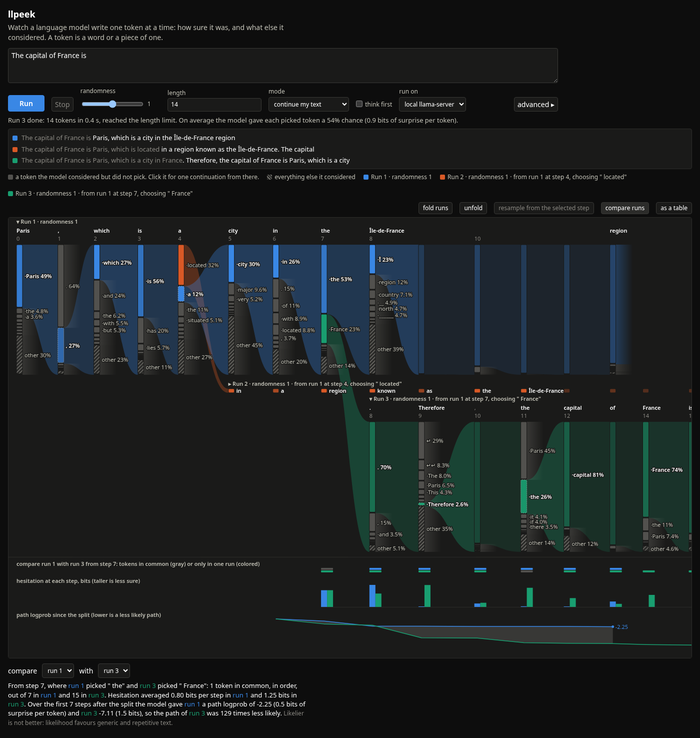
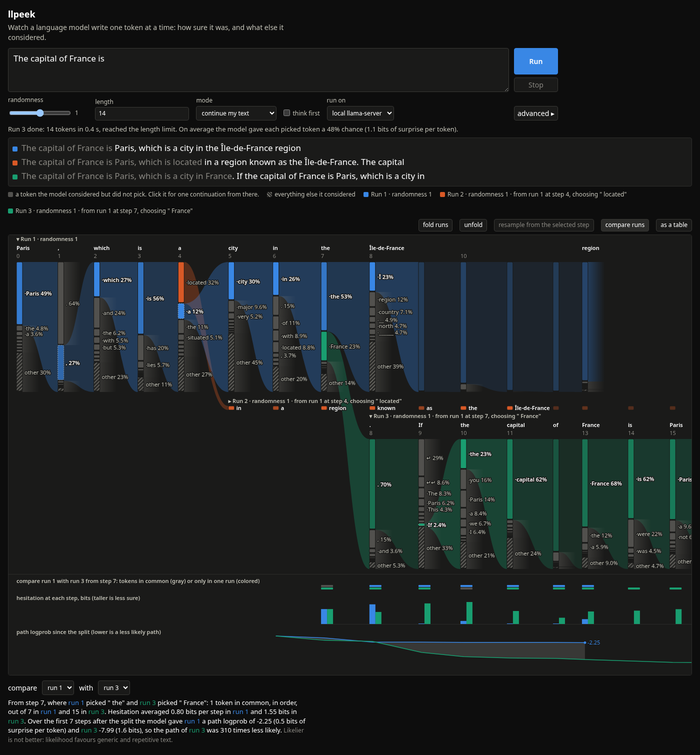
1

diff --git a/docs/app.html b/docs/app.html
@@ -75,7 +75,12 @@
   label.mode { white-space: nowrap; }
   input, textarea, button { font: inherit; color: var(--ink); background: var(--surface);
          border: 1px solid var(--line); border-radius: 4px; padding: 4px 6px; min-width: 0; }
-  textarea { display: block; width: 100%; box-sizing: border-box; min-height: 70px; resize: vertical; }
+  textarea { display: block; width: 100%; box-sizing: border-box; min-height: 88px; resize: vertical; font-size: 17px; line-height: 1.4; padding: 8px 10px; }
+  .promptRow { display: flex; gap: 10px; align-items: stretch; }
+  .promptRow textarea { flex: 1; }
+  .actions { display: flex; flex-direction: column; gap: 6px; }
+  .actions button { min-width: 88px; }
+  .actions .primary { flex: 1; padding: 6px 22px; }
   button { cursor: pointer; }
   button.primary { background: var(--chosen); border-color: var(--chosen); color: #fff; font-weight: 600; padding: 6px 22px; }
   button.primary:disabled { opacity: 0.5; cursor: default; }
@@ -99,8 +104,8 @@
     #chart rect.next { opacity: 0.6; }
   }
   #text { margin: 8px 0; padding: 8px; background: var(--surface); border: 1px solid var(--grid);
-          border-radius: 4px; white-space: pre-wrap; word-break: break-word; font-size: 13px;
-          max-height: 200px; overflow: auto; user-select: text; }
+          border-radius: 4px; white-space: pre-wrap; word-break: break-word; font-size: 17px; line-height: 1.4;
+          max-height: 240px; overflow: auto; user-select: text; }
   #text:empty { display: none; }
   #text .t { cursor: pointer; border-radius: 2px; }
   #text .t:hover { background: var(--grid); }
@@ -158,19 +163,27 @@
   #resamplePanel select { font-size: 12px; }
   #resamplePanel td.tok { font-family: ui-monospace, SFMono-Regular, Menlo, monospace; white-space: pre-wrap; }
   .hidden { display: none; }
+  dialog { border: 1px solid var(--line); border-radius: 6px; background: var(--surface); color: var(--ink); padding: 16px 18px; max-width: 34em; }
+  dialog::backdrop { background: rgba(0, 0, 0, 0.35); }
+  dialog h2 { font-size: 15px; margin: 0 0 8px; }
+  dialog p { margin: 6px 0; }
+  dialog .row { display: flex; gap: 8px; margin-top: 12px; }
 </style>
 </head>
 <body>
 <h1><a href="./" title="About llpeek">llpeek</a></h1>
-<p class="intro">Watch a language model write one token at a time: how sure it was, and what else it considered.
-A token is a word or a piece of one.</p>
+<p class="intro">Watch a language model write one token at a time: how sure it was, and what else it considered.</p>
 
 <form id="f" onsubmit="return false">
-  <textarea id="prompt" placeholder="Type something for the model to continue, or a question to answer. Ctrl+Enter runs it." spellcheck="false">The capital of France is</textarea>
+  <div class="promptRow">
+    <textarea id="prompt" placeholder="Type something for the model to continue, or a question to answer. Ctrl+Enter runs it." spellcheck="false">The capital of France is</textarea>
+    <div class="actions">
+      <button id="run" class="primary" title="Ctrl+Enter">Run</button>
+      <button id="stop" disabled title="Escape">Stop</button>
+    </div>
+  </div>
   <p id="promptNote" class="warn hidden">The prompt ends with a space. The space usually belongs to the next token, so a model rarely sees one here and the first step will look more hesitant than it is. Remove it unless that is what you want to test.</p>
   <div class="bar">
-    <button id="run" class="primary" title="Ctrl+Enter">Run</button>
-    <button id="stop" disabled title="Escape">Stop</button>
     <label title="0 = always take the most likely token. Higher = more surprising choices.">randomness
       <span class="range"><input id="temperature" type="range" min="0" max="2" step="0.1" value="0.8"><output id="tempOut">0.8</output></span>
     </label>
@@ -196,7 +209,7 @@ A token is a word or a piece of one.</p>
   <div id="browserRow" class="panel hidden">
     <label>model <select id="model"></select></label>
     <label id="modelUrlLabel" class="hidden">model URL <input id="modelUrl" placeholder="https://huggingface.co/<repo>/resolve/main/<file>.gguf" size="52"></label>
-    <button id="load">load model</button>
+    <button id="load" class="primary">load model</button>
     <span id="modelNote" class="muted"></span>
     <span id="loadInfo" class="hidden"><progress id="loadBar" max="100"></progress><span id="loadText" class="muted"></span></span>
   </div>
@@ -234,6 +247,12 @@ A token is a word or a piece of one.</p>
 <div id="tableWrap" class="hidden"></div>
 <div id="compare"></div>
 <div id="resamplePanel"></div>
+<dialog id="noModel">
+  <h2>Load a model first</h2>
+  <p>Running in this browser needs a model. Selected: <b id="noModelName"></b>. <span id="noModelNote" class="muted"></span></p>
+  <p class="muted">To use another one, close this and pick it under "run on: this browser".</p>
+  <div class="row"><button id="noModelLoad" class="primary">load it, then run</button><button id="noModelCancel">not now</button></div>
+</dialog>
 <div id="tip" role="tooltip"></div>
 
 <script>
@@ -492,8 +511,8 @@ if (!crossOriginIsolated && 'serviceWorker' in navigator && window.isSecureConte
   // Public GGUFs that load in a browser (CORS-enabled, under the 2 GB single-file
   // limit). [label, url, bytes]; bytes from the CDN's content-length, 2026-09-27.
   const MODELS = [
-    ['Qwen3.5 2B Q8_0 (2.1 GB, same as the server default)', 'https://huggingface.co/bartowski/Qwen_Qwen3.5-2B-GGUF/resolve/main/Qwen_Qwen3.5-2B-Q8_0.gguf', 2080140384],
-    ['Qwen3.5 2B Q4_K_M (1.4 GB, faster download)', 'https://huggingface.co/bartowski/Qwen_Qwen3.5-2B-GGUF/resolve/main/Qwen_Qwen3.5-2B-Q4_K_M.gguf', 1396198496],
+    ['Qwen3.5 2B Q4_K_M (1.4 GB, default)', 'https://huggingface.co/bartowski/Qwen_Qwen3.5-2B-GGUF/resolve/main/Qwen_Qwen3.5-2B-Q4_K_M.gguf', 1396198496],
+    ['Qwen3.5 2B Q8_0 (2.1 GB, the same file as the server default)', 'https://huggingface.co/bartowski/Qwen_Qwen3.5-2B-GGUF/resolve/main/Qwen_Qwen3.5-2B-Q8_0.gguf', 2080140384],
     ['SmolLM2 360M Instruct Q8_0 (0.4 GB, Hugging Face)', 'https://huggingface.co/HuggingFaceTB/SmolLM2-360M-Instruct-GGUF/resolve/main/smollm2-360m-instruct-q8_0.gguf', 386404992],
     ['Gemma 3 1B Instruct Q8_0 (1.1 GB, Google)', 'https://huggingface.co/ggml-org/gemma-3-1b-it-GGUF/resolve/main/gemma-3-1b-it-Q8_0.gguf', 1069306368],
     ['Llama 3.2 1B Instruct Q8_0 (1.3 GB, Meta)', 'https://huggingface.co/bartowski/Llama-3.2-1B-Instruct-GGUF/resolve/main/Llama-3.2-1B-Instruct-Q8_0.gguf', 1321083008],
@@ -1737,8 +1756,23 @@ if (!crossOriginIsolated && 'serviceWorker' in navigator && window.isSecureConte
   }
   $('n_predict').addEventListener('change', () => { const n = +$('n_predict').value; if (n > 0 && runs.length) active = extendRuns(n); });
 
-  $('run').onclick = () => { if (ctrl) return; runs = []; selected = null; sampleSet = null; colCur = []; colTarget = []; active = startRun(newRun()); };
-  $('add').onclick = () => { if (ctrl) return; active = startRun(newRun()); };
+  // Run or add with the browser engine and no model loaded: ask, load, then do it.
+  const needsModel = () => $('engine').value === 'browser' && !browser;
+  function askForModel(then) {
+    const sel = $('model'), url = sel.value === 'url';
+    $('noModelName').textContent = url ? ($('modelUrl').value.trim().split('/').pop() || 'no URL entered yet') : (sel.selectedOptions[0]?.textContent ?? '');
+    $('noModelNote').textContent = $('modelNote').textContent;
+    $('noModelLoad').disabled = url && !$('modelUrl').value.trim();
+    $('noModelLoad').onclick = async () => { $('noModel').close(); if (await loadModel()) then(); };
+    $('noModelCancel').onclick = () => $('noModel').close();
+    $('noModel').showModal();
+  }
+  $('run').onclick = () => {
+    if (ctrl) return;
+    if (needsModel()) { askForModel(() => $('run').onclick()); return; }
+    runs = []; selected = null; sampleSet = null; colCur = []; colTarget = []; active = startRun(newRun());
+  };
+  $('add').onclick = () => { if (ctrl) return; if (needsModel()) { askForModel(() => $('add').onclick()); return; } active = startRun(newRun()); };
   $('stop').onclick = () => ctrl?.abort();
 
   // Prefill from the query string (?base=...&prompt=...&n_predict=..&run=1), for

diff --git a/scripts/models.ts b/scripts/models.ts
@@ -11,8 +11,8 @@ if (di >= 0) { dir = args[di + 1]; args.splice(di, 2); }
 dir = dir.replace(/\/$/, "");
 const HF = "https://huggingface.co";
 const KNOWN: Record<string, { url: string; note: string }> = {
-  "qwen3.5-2b":        { url: `${HF}/bartowski/Qwen_Qwen3.5-2B-GGUF/resolve/main/Qwen_Qwen3.5-2B-Q8_0.gguf`, note: "2.1 GB, Q8_0, the project default; also the browser default" },
-  "qwen3.5-2b-q4":     { url: `${HF}/bartowski/Qwen_Qwen3.5-2B-GGUF/resolve/main/Qwen_Qwen3.5-2B-Q4_K_M.gguf`, note: "1.4 GB, Q4_K_M, lighter" },
+  "qwen3.5-2b":        { url: `${HF}/bartowski/Qwen_Qwen3.5-2B-GGUF/resolve/main/Qwen_Qwen3.5-2B-Q8_0.gguf`, note: "2.1 GB, Q8_0, the server default" },
+  "qwen3.5-2b-q4":     { url: `${HF}/bartowski/Qwen_Qwen3.5-2B-GGUF/resolve/main/Qwen_Qwen3.5-2B-Q4_K_M.gguf`, note: "1.4 GB, Q4_K_M, the browser default" },
   "qwen3.5-4b":        { url: `${HF}/bartowski/Qwen_Qwen3.5-4B-GGUF/resolve/main/Qwen_Qwen3.5-4B-Q8_0.gguf`, note: "4.6 GB, Q8_0" },
   "qwen3.5-4b-q4":     { url: `${HF}/bartowski/Qwen_Qwen3.5-4B-GGUF/resolve/main/Qwen_Qwen3.5-4B-Q4_K_M.gguf`, note: "3.0 GB, Q4_K_M" },
   "smollm3":           { url: `${HF}/ggml-org/SmolLM3-3B-GGUF/resolve/main/SmolLM3-Q8_0.gguf`, note: "3.3 GB, Q8_0, thinking model with a system-prompt style template" },

diff --git a/docs/index.html b/docs/index.html
@@ -62,7 +62,7 @@
   <p class="tagline">Watch a language model write one token at a time: how sure it was and what else it considered. Pick a different candidate and see where it leads.</p>
   <a class="cta" href="app.html">Try it in your browser</a>
   <a class="cta secondary" href="https://github.com/wistrand/llpeek">Source on GitHub</a>
-  <p class="caption">The browser version downloads a 2 GB model once and runs it on your machine with WebAssembly. Nothing you type leaves your computer.</p>
+  <p class="caption">The browser version downloads a 1.4 GB model once and runs it on your machine with WebAssembly. Nothing you type leaves your computer.</p>
 </header>
 
 <a class="shot" href="screenshot-dark.png"><img src="thumb-dark.png" alt="llpeek showing a Sankey of candidate tokens per step for the prompt 'The capital of France is', two runs branched where the model considered ' located' and ' France', and compare tracks below lining up the last branch with the first run"></a>

diff --git a/agent_docs/architecture-app.md b/agent_docs/architecture-app.md
@@ -241,6 +241,11 @@ add new motion by extending the tween state, so one loop owns all motion.
   show full settings, tooltips add ids and logprobs, the status line appends
   tok/s and path logprob, and the table gains logprob and sampler columns.
   Keep this one switch; do not add per-feature "show technical" toggles.
+- Run or "add a run" with the browser engine and no model loaded opens the
+  `#noModel` dialog (`askForModel`, a native `<dialog>` via `showModal`):
+  it names the selected model with its size note and offers "load it, then
+  run", which loads and then repeats the click, or "not now". Escape closes
+  it. Branches and resamples never hit it, since they reuse the run's engine.
 - A run keeps the engine it was made with (`run.engine`). Loading another
   browser model unloads the old wllama instance, which marks itself
   `unloaded`; `gone(run)` then refuses to branch, resample, extend or replay
@@ -254,8 +259,9 @@ add new motion by extending the tween state, so one loop owns all motion.
   the chosen engine (the loaded browser model's info, or "pick a model"; for
   the server, a fresh check that says which model it runs). The idle phrases
   in `scripts/headless.ts` include these status lines.
-- Controls: prompt textarea, Run (primary; Ctrl+Enter or Cmd+Enter), Stop
-  (Escape), randomness slider, length, mode, think first, run on. Choosing the
+- Controls: prompt textarea (17 px text, the same size as the output strip) with Run (primary; Ctrl+Enter or
+  Cmd+Enter) and Stop (Escape) stacked in a column to its right
+  (`.promptRow`, `.actions`), then the bar: randomness slider, length, mode, think first, run on. Choosing the
   browser engine reveals a model row (curated public URLs, or a URL) with a load
   button, a size note (a warning above 1 GB, or "already in this browser"
   when wllama's cache holds the file) and progress. Advanced: server

diff --git a/README.md b/README.md
@@ -59,9 +59,10 @@ The landing page at http://localhost:8000/ is the same one GitHub Pages publishe
 - `deno task llama` and `deno task serve` run the two halves separately.
   Append `-m <model>` or other llama-server flags to the llama task to override.
 - No llama-server? Set "run on" to "this browser" and press "load model". The
-  default is the same 2B Qwen from Hugging Face, downloaded once and cached by
-  the browser; the list also has SmolLM2 360M, Gemma 3 1B, Llama 3.2 1B and
-  SmolLM3 3B, and any CORS-enabled GGUF URL under 2 GB works. A note next to
+  default is the 2B Qwen at Q4_K_M (1.4 GB) from Hugging Face, downloaded
+  once and cached by the browser; the Q8_0 in the list is the same file the
+  server uses, and the list also has SmolLM2 360M, Gemma 3 1B, Llama 3.2 1B
+  and SmolLM3 3B. Any CORS-enabled GGUF URL under 2 GB works. A note next to
   the button gives the download size before you start, or says the model is
   already in the browser's cache. The published site
   offers only this engine; the server option appears when the page is served

diff --git a/agent_docs/architecture-browser-engine.md b/agent_docs/architecture-browser-engine.md
@@ -48,9 +48,10 @@ a string entry and biases every resulting token, verified 2026-09-27 with
 `[[" Paris is", false]]` banning " Paris". On a model without a `<think>`
 token the string would ban the pieces "<", "think" and ">" instead. wllama
 3.6.1 has no tokenizer call in JS, so the template is the only cheap signal.
-Default: Hugging Face
-`bartowski/Qwen_Qwen3.5-2B-GGUF`, file `Qwen_Qwen3.5-2B-Q8_0.gguf` (2.08 GB,
-byte-identical to the local server default). Hugging Face `resolve` links 302 to
+Default (since 2026-09-28): Hugging Face `bartowski/Qwen_Qwen3.5-2B-GGUF`,
+file `Qwen_Qwen3.5-2B-Q4_K_M.gguf` (1.40 GB); the Q8_0 next to it (2.08 GB)
+is byte-identical to the local server default, so pick it when a browser run
+must match a server run: quantizations give different probabilities. Hugging Face `resolve` links 302 to
 a CDN; with a browser `Origin` header the redirect echoes the origin and the CDN
 answers `access-control-allow-origin: *` (verified from `http://localhost:8000`).
 Local files are deliberately not served: the page must work the same from any

diff --git a/agent_docs/plan.md b/agent_docs/plan.md
@@ -246,6 +246,15 @@ and four track headings.
 
 ## Open questions
 
+- **Chrome's built-in model is not usable as an engine** (checked 2026-09-28).
+  The Prompt API (`LanguageModel`, Gemini Nano in Chrome 138+, Phi-4-mini in
+  Edge) returns text only: no logprobs, candidate tokens or logits, no seed,
+  chat sessions only, and on the web no sampling parameters beyond an
+  origin-trial `samplingMode` enum (extensions get `topK`/`temperature`).
+  The logprobs request is webmachinelearning/prompt-api#20, open since July
+  2024 with no editor response. llpeek needs pre-sampling top-K per token, so
+  wllama stays the browser engine. Revisit if #20 moves.
+
 - **Rendering cost.** `render()` rebuilds the SVG on every step. Measured
   2026-09-27 in headless Chrome, three lanes: 240 columns (7.5k SVG nodes)
   rebuild in about 2 ms of script time, 600 columns (19k nodes) in about 6 ms,

diff --git a/agent_docs/gotchas.md b/agent_docs/gotchas.md
@@ -100,8 +100,8 @@ Traps in the llama-server API and this machine's setup. Append as discovered.
   the first shard.
 - **Every headless Chrome run downloads the model again.** wllama's cache lives
   in the browser profile, and headless runs start fresh, so each
-  `deno task headless` or browser-engine `deno task shot` pulls 2 GB from
-  Hugging Face. Use `model=<stories260K url>` for cheap probes, and the 0.4 GB
+  `deno task headless` or browser-engine `deno task shot` pulls the default
+  model (1.4 GB) from Hugging Face. Use `model=<stories260K url>` for cheap probes, and the 0.4 GB
   SmolLM2 360M when the output has to make sense (both URLs in `MODELS`).
 - **Official `Qwen/*-GGUF` and `ggml-org/Qwen3.5-*` repos answer 401.** Use
   `bartowski/Qwen_Qwen3.5-2B-GGUF` or `unsloth/Qwen3.5-2B-GGUF`, both public.
